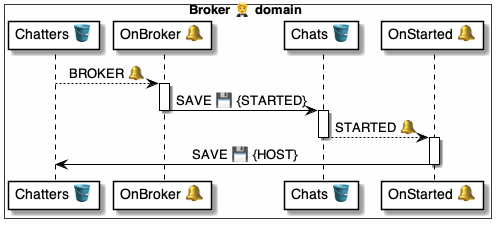
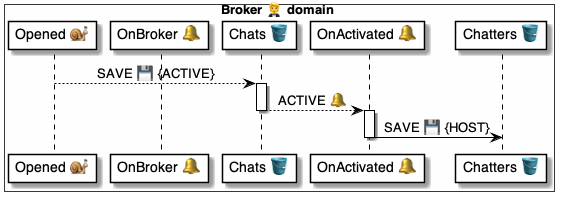
.

diff --git a/4 ⚙ Solution/20 🧑🦰 UI/Brokers 🤵/🤵🪣 Broker tables/Chats 💬 table/🪣🔔 4 Opened/🤵 OnChatOpened 📃 script.md b/4 ⚙ Solution/20 🧑🦰 UI/Brokers 🤵/🤵🪣 Broker tables/Chats 💬 table/🪣🔔 4 Opened/🤵 OnChatOpened 📃 script.md
@@ -22,28 +22,24 @@
     UUIDs: Wallet
     Texts: Host
 
-# Verify if it's a Pop@Broker
+# Activate the Chat on Pop@Broker
 - IF|$Chat.Host.Is($.Hosted.Domain):
+    - SAVE|$Chat:
+        .State: ACTIVE
+    - RETURN
 
-    Then: # Add the Broker to the Chat
-        SAVE|Broker.Chatters:
-            .State: POP
-            Domain: $.Hosted.Domain
-            Role: VAULT
-            Chat: $Chat.ID
-
-    Else: # Add the Finder to the Chat
-        SAVE|Broker.Chatters:
-            .State: FINDER
-            Domain: $Chat.Wallet.Finder
-            Role: VAULT
-            Chat: $Chat.ID
+# Otherwise, add the Finder to the Chat
+SAVE|Broker.Chatters:
+    .State: FINDER
+    Domain: $Chat.Wallet.Finder
+    Role: VAULT
+    Chat: $Chat.ID
 ```
 
 
 | Uses | |
 |-|-
-| [Commands ⌘](<../../../../../35 💬 Chats/Scripts 📃/Command ⌘.md>)  | [`ASSERT`](<../../../../../37 Scripts 📃/📃 Commands ⌘/⌘ for holders 🧠/ASSERT 🚦/🚦 ASSERT ⌘ cmd.md>) [`IF`](<../../../../../37 Scripts 📃/📃 Commands ⌘/⌘ for control ▶/IF ⤵/⤵ IF ⌘ cmd.md>) [`SAVE`](<../../../../../37 Scripts 📃/📃 Commands ⌘/⌘ for datasets 🪣/SAVE 💾/💾 SAVE ⌘ cmd.md>)
+| [Commands ⌘](<../../../../../35 💬 Chats/Scripts 📃/Command ⌘.md>)  | [`ASSERT`](<../../../../../37 Scripts 📃/📃 Commands ⌘/⌘ for holders 🧠/ASSERT 🚦/🚦 ASSERT ⌘ cmd.md>) [`IF`](<../../../../../37 Scripts 📃/📃 Commands ⌘/⌘ for control ▶/IF ⤵/⤵ IF ⌘ cmd.md>) [`RETURN`](<../../../../../37 Scripts 📃/📃 Commands ⌘/⌘ for control ▶/RETURN ⤴/⤴ RETURN ⌘ cmd.md>) [`SAVE`](<../../../../../37 Scripts 📃/📃 Commands ⌘/⌘ for datasets 🪣/SAVE 💾/💾 SAVE ⌘ cmd.md>)
 | [Datasets 🪣](<../../../../../30 🧩 Data/Datasets 🪣/🪣 Dataset.md>) | [`Chats`](<../🪣 Chats/🤵 Broker.Chats 🪣 table.md>) [`Chatters`](<../../Chatters 👥 table/🪣 Chatters/🤵 Broker.Chatters 🪣 table.md>) [`Wallets`](<../../Wallets 🧑🦰 table/🪣 Wallets/🤵 Broker.Wallets 🪣 table.md>)
 | [{Functions} 🐍](<../../../../../35 💬 Chats/Scripts 📃/Function 🐍.md>) | [`.Is`](<../../../../../37 Scripts 📃/📃 Functions 🐍/🐍 System 🔩 functions/Is ⓕ.md>)
 | [Holders 🧠](<../../../../../35 💬 Chats/Scripts 📃/Holder 🧠.md>) | [`$.Hosted`](<../../../../../37 Scripts 📃/📃 Holders 🧠/System holders 🔩/$.Hosted 📦/📦 $.Hosted 🧠 holder.md>)

diff --git a/4 ⚙ Solution/20 🧑🦰 UI/Brokers 🤵/🤵🪣 Broker tables/Chats 💬 table/🪣 Chats/🤵 Broker.Chats 🪣 table.md b/4 ⚙ Solution/20 🧑🦰 UI/Brokers 🤵/🤵🪣 Broker tables/Chats 💬 table/🪣 Chats/🤵 Broker.Chats 🪣 table.md
@@ -68,7 +68,7 @@ Handlers:
 |`DETAILED`|[OnDetailed](<../🪣🔔 3 Detailed/🤵 OnChatDetailed 📃 handler.md>) | [`Open@`](<../../../../Notifiers 📣/📣🅰 Notifier methods/Chats 💬 Open 🤵🐌📣/📣 Open 🐌 msg.md>) | [Notifier 📣](<../../../../Notifiers 📣/📣 Notifier domain/📣 Notifier 👥 domain.md>)
 |`OPENED`|[OnOpened](<../🪣🔔 4 Opened/🤵 OnChatOpened 📃 script.md>) | [`Present@`](<../../../../../50 🫥 Agent domains/Finders 🔎/🔎🅰 Finder methods/Present 🤵🐌🔎/🔎 Present 🐌 msg.md>) | [Finder 🔎](<../../../../../50 🫥 Agent domains/Finders 🔎/🔎 Finder agent/🔎 Finder 🫥 agent.md>)
 |`PRESENTED`|[OnPresented](<../🪣🔔 5 Presented/🤵 OnChatPresented 📃 handler.md>) | [`Prompt@`](<../../../🤵🅰 Broker methods/Chats 💬 Prompt 🤗🐌🤵/🤵 Prompt 🐌 msg.md>) | [Notifier 📣](<../../../../Notifiers 📣/📣 Notifier domain/📣 Notifier 👥 domain.md>)
-|`STARTED`|[OnStarted](<../🪣🔔 6 Activated/🤵 OnChatStarted 📃 handler.md>) | [`Hello@`](<../../../../../41 🎭 Domain Roles/Hosts 🤗/🤗🅰 Host methods/Hello 🤵🐌🤗/🤗 Hello 🐌 msg.md>) | [Host 🤗](<../../../../../41 🎭 Domain Roles/Hosts 🤗/🤗 Host role/🤗🎭 Host role.md>)
+|`STARTED`|[OnStarted](<../🪣🔔 6 Activated/🤵 OnChatActivated 📃 handler.md>) | [`Hello@`](<../../../../../41 🎭 Domain Roles/Hosts 🤗/🤗🅰 Host methods/Hello 🤵🐌🤗/🤗 Hello 🐌 msg.md>) | [Host 🤗](<../../../../../41 🎭 Domain Roles/Hosts 🤗/🤗 Host role/🤗🎭 Host role.md>)
 |`UPDATED`|[OnLocalized](<../🪣🔔 7 Localized/🤵 OnChatLocalized 📃 handler.md>) | [`Translate@`](<../../../../../45 🤲 Helper domains/Graphs 🕸/🕸🅰 Graph methods/👥🚀🕸 Translate/🕸 Translate 📃 handler.md>) | [Graph 🕸](<../../../../../45 🤲 Helper domains/Graphs 🕸/🕸 Graph helper/🕸🤲 Graph helper.md>)
 |`ABANDONED`|[OnAbandoned](<../🪣🔔 8 Abandoned/🤵 OnChatAbandoned 📃 handler.md>) | [`Abandoned@`](<../../../../../41 🎭 Domain Roles/Hosts 🤗/🤗🅰 Host methods/Abandoned 🤵🐌🤗/🤗 Abandoned 🐌 msg.md>) | [Host 🤗](<../../../../../41 🎭 Domain Roles/Hosts 🤗/🤗 Host role/🤗🎭 Host role.md>)
 |`DONE`|[OnDone](<../🪣🔔 9 Done/🤵 OnChatDone 📃 handler.md>)
